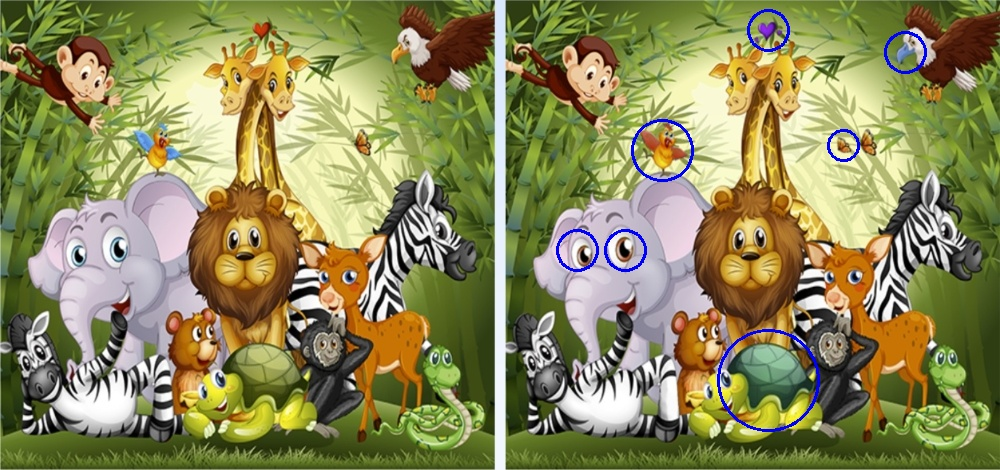
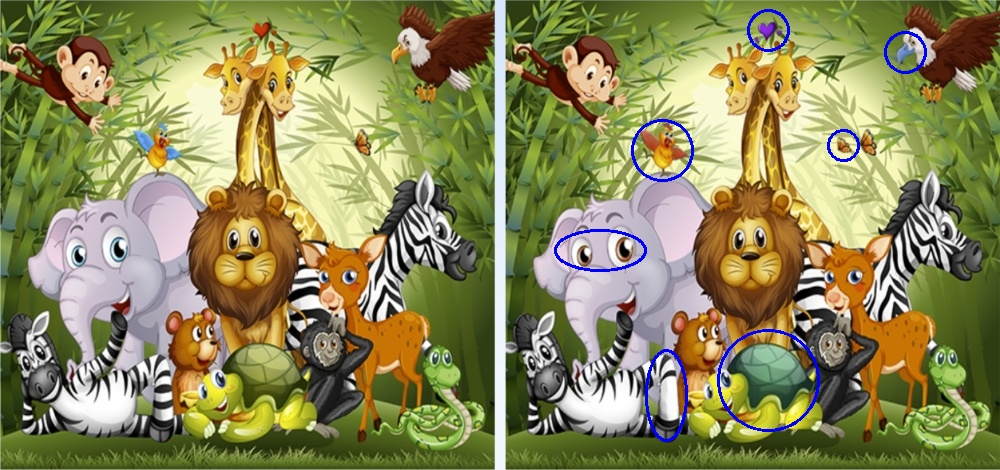
week5

diff --git a/week4/photohunt.py b/week4/photohunt.py
@@ -1,0 +1,29 @@
+import cv2
+import os
+
+# read image
+img = cv2.imread("D:\\workspace\\python\\week4\\img\\animal7m.jpg")
+'''
+# print shape
+print(img.shape)
+
+# draw
+
+draw_img = cv2.circle(img, (768, 30), 20, (255, 0, 0), 2)
+draw_img = cv2.circle(img, (662, 150), 30, (255, 0, 0), 2)
+draw_img = cv2.circle(img, (843, 145), 15, (255, 0, 0), 2)
+draw_img = cv2.circle(img, (905, 52), 20, (255, 0, 0), 2)
+draw_img = cv2.ellipse(img, (600, 250), (45, 20), 0, 0, 360, (255, 0, 0), 2)
+draw_img = cv2.circle(img, (768, 380), 50, (255, 0, 0), 2)
+draw_img = cv2.ellipse(img, (666, 395), (45, 20), 90, 0, 360, (255, 0, 0), 2)
+
+# show image
+'''
+cv2.imshow("Photo hunt", img)
+'''
+# save file
+os.chdir("D:\\workspace\\python\\week4\\img\\")
+cv2.imwrite("circled.jpg", draw_img)
+'''
+cv2.waitKey(0)
+cv2.destroyAllWindows()

diff --git a/week5/image_property.py b/week5/image_property.py
@@ -1,0 +1,13 @@
+import cv2
+
+img = cv2.imread("D:\\workspace\\python\\week5\\img\\harvest-moon-dog.png", 0)
+
+# return (height, width, channel)
+print(img.shape)
+print(img.size)
+# img[height, width] return (0, 0, 0) or 0 for grayscale
+print(img[155, 422])
+
+cv2.imshow("Result", img)
+cv2.waitKey(0)
+cv2.destroyAllWindows()
